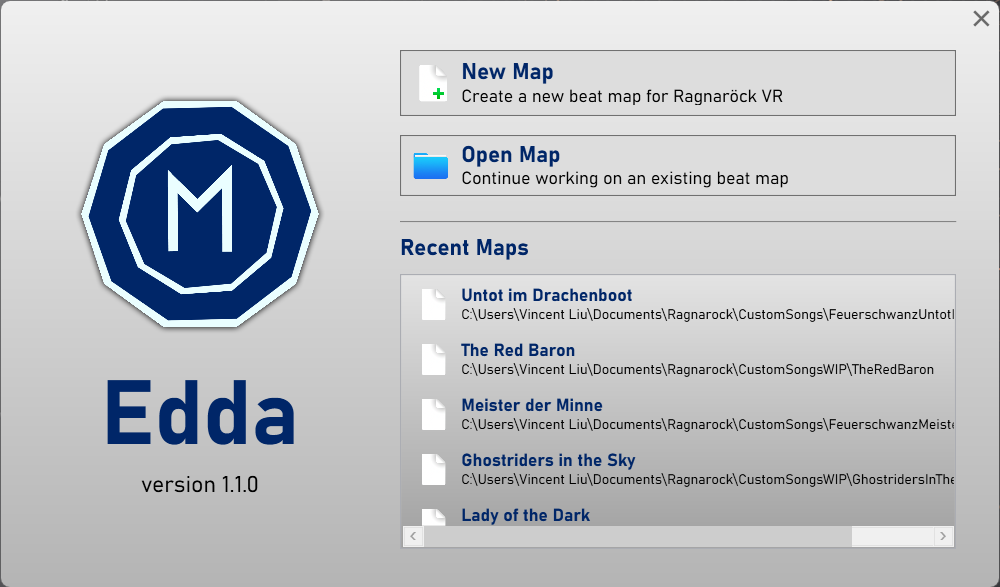
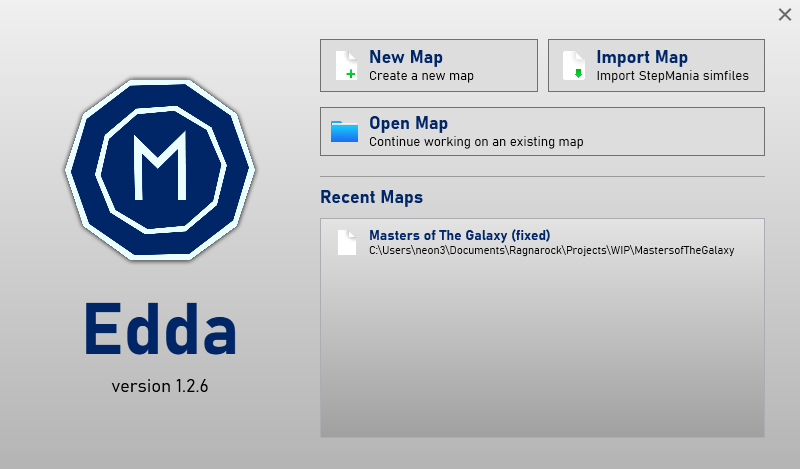
Updated documentation to be in line with Edda 1.2.6

diff --git a/using-edda.md b/using-edda.md
@@ -22,6 +22,8 @@ Now that you have Edda installed, let's make a map!
   - [Basic controls](#basic-controls)
   - [Selecting notes](#selecting-notes)
   - [Note playback](#note-playback)
+  - [Spectrogram](#spectrogram)
+  - [Map Stats](#map-stats)
   - [Exporting your map](#exporting-your-map)
   
  
@@ -74,7 +76,7 @@ You can then transcode to Vorbis format by using Audacity or ffmpeg as described
 
 ## Getting to know the UI 
 
-Go to the folder you extracted Edda to, and open `Edda.exe`.  
+Go to the folder you extracted Edda to, and open `Edda.exe`.
 
 You'll be greeted with a start screen. 
 
@@ -173,7 +175,7 @@ Under **File Info**, click the button with a folder icon next to the *Image* fie
 
 The preview is what plays in-game when you select a song. It should be shorter than 15 seconds and it should showcase the best part of your song, for example the chorus.
 
-You don't need a preview for your song to be playable, but it's a good idea to have one.  
+You don't need a preview for your song to be playable, but it's a good idea to have one. If you don't provide one, the game will automatically play first few seconds of your song instead.
 
 Using the media controls in the bottom of Edda's main window, pick out the start and end times of what you want the preview to be.
 
@@ -183,7 +185,7 @@ Under **File Info**, click the "Create Song Preview" button. Put in your start a
 
 #### The navigational waveform
 
-Let's take a look at the navigational waveform next to the editor grid.
+Let's take a look at the navigational waveform to the right of the editor grid.
 
 The waveform of the entire song is displayed here, and the dark blue horizontal line indicates the position of the scan line (the current position). 
 
@@ -225,7 +227,7 @@ Each difficulty has a *Difficulty Level*, *Note Speed*, and **Medal Distances**.
 
 The *Difficulty Level* is a number from 1 to 10 (inclusive) that represents how hard the map is. You should be familiar with this number if you've played Ragnarock before.
 
-The *Note Speed* is how fast the runes approach you when you play the map in-game. You'll have to experiment with this in the game to get a feel for what the numbers mean. A good place to start is 15, which represents an average speed. You can increase this a few units to make the notes approach even faster.
+The *Note Speed* is how fast the runes approach you when you play the map in-game. The value you set here is the default one used by the game, but the players can override it with the "Custom Rune Speed" setting. You'll have to experiment with this in the game to get a feel for what the numbers mean. A good place to start is 15, which represents an average speed. You can increase this a few units to make the notes approach even faster. The maximum value Ragnarock allows players to set is 30, but you can set it even higher in Edda, although you'll need to inform the players that they have to disable "Custom Rune Speed" to see the intended effect.
 
 **Medal Distances** represent how many metres your boat must row in order to achieve a certain medal. In most cases, you should leave these set to "Auto" so that Ragnarock will automatically calculate medal distances for you.  
 
@@ -233,7 +235,7 @@ The *Note Speed* is how fast the runes approach you when you play the map in-gam
 
 Now that everything else is set up, let's start placing notes.
 
-While you map, it might be helpful to refer to the *Grid Waveform*.
+While you map, it might be helpful to refer to the *Grid Waveform* and *Spectrogram*.
 
 ### Basic controls
 
@@ -252,6 +254,8 @@ To remove a note, simply right-click it.
 You can select notes by either clicking them individually or dragging across the editing grid (to select multiple notes).
 
 If you hold down the `Shift` key while selecting, you can add to your selection instead of clearing it.
+
+Once you place some bookmarks or timing changes, you can click them while holding `Ctrl` to toggle selection of all the notes between that bookmark/timing change and the next one, to quickly select whole sections of a map.
 
 Pressing `Ctrl-A` will select every note on the map.
 
@@ -277,6 +281,20 @@ You can use the media controls to do so, or press `Space` to play/pause the song
 It may be helpful to adjust the *Song Volume* and *Note Volume* in the right sidebar to help you hear notes properly.
 
 To slow down or speed up the song, adjust the *Song Speed* slider in the right sidebar.
+
+### Spectrogram
+
+Spectrogram is a useful tool that visualizes the frequencies present in the audio. Drum beats will generally cause a characteristic "peak" to be visible on a spectrogram, so you can use it as a guide for the timing of your notes.
+
+There is a small bar between Spectrogram and Editing Grid that can be clicked and dragged to resize it if you need to get a closer look.
+
+Spectrogram can be enabled/disabled in the settings. Further options for configuring it are explained on [Spectrogram advanced settings](advanced-topics#spectrogram-advanced-settings) page.
+
+### Map Stats
+
+During the mapping process, you'll be able to see some useful stats in the left sidebar: number of notes of different types, what percentage of notes are in each column, and how many notes per second players will have to hit.
+
+If you configure the difficulty predictor in the settings, you'll also see an estimation of the map difficulty.
 
 ### Exporting your map
 

diff --git a/advanced-topics.md b/advanced-topics.md
@@ -5,19 +5,36 @@
 Now that you're comfortable with using Edda, here are some more advanced topics to help you make the most of your mapping experience.  
 
 - [Settings](#settings)
+    - [Spectrogram advanced settings](#spectrogram-advanced-settings)
 - [Backups](#backups)
 - [Timing changes](#timing-changes)
 - [Note runes](#note-runes)
 - [Audio latency](#audio-latency)
-  - [Technical details](#technical-details)
+    - [Technical details](#technical-details)
 - [Drum hitsounds](#drum-hitsounds)
+- [Audio devices](#audio-devices)
 - [Map save location](#map-save-location)
+- [Import Map](#import-map)
 
 ## Settings
 
 Since Edda v1.0.0, the settings are automatically stored in `AppData/Roaming/Edda/settings.txt`.
 
 You can migrate settings from other Edda installs by replacing `settings.txt`. 
+
+### Spectrogram advanced settings
+
+Once Spectrogram is enabled in the settings, a new section appears that allows you to customize the appearance and other technical details.
+
+The `Color Theme` can be changed by selecting one of the built-in options. Try different ones to decide which one is most clear to you.
+
+Generating spectrogram is costly on CPU, so there's an option to `Cache Images` in a dedicated cache folder. You can also speed up this process by decreasing `Max Frequency` (level of horizontal detail) or `Quality` (level of vertical detail), but this is generally not advised unless your machine struggles a lot.
+
+> **NOTE** For longer songs, the generated image can be bigger than the bitmap format allows for, so it's also recommended to `Enable Chunking`, which generates the spectrogram image in many smaller chunks. 
+>
+> This can cause small artifacts to appear at the "stitches" of those chunks.
+
+> **NOTE** Once caching is enabled, a new option appears in *Menu Bar* under *Tools* that can be used to clear the cache folder.
 
 ## Backups
 
@@ -91,8 +108,8 @@ Each note in Ragnarock has a rune inscribed on it. The runes indicate what beat 
 ---|---
 |ᛄ  |0 (or 1)|
 |ᚼ  |1/2|
-|ᛝ  |1/3|
-|ᛞ  |2/3|
+|ᛝ  |1/3 and 5/6|
+|ᛞ  |1/6 and 2/3|
 |ᛁ   |1/4|
 |ᚾ  |3/4|
 |ᚷ  |other|
@@ -147,7 +164,7 @@ When you play back a map in Edda, a snare drum sound will play when the scan lin
 
 That's the default hitsound for Edda, and it can be changed in the Settings menu (under **Audio Playback**, then *Playback Sound*).
 
-By default Edda also provides a bass drum sound and a hi-hat sound, but you can add your own hitsounds if you aren't satisfied with either.
+By default Edda also provides a bass drum sound, a hi-hat sound and a tick sound from MMA2, but you can add your own hitsounds if you aren't satisfied with either.
 
 To add your own hitsounds, go to the `Resources` folder in your Edda install and place `.mp3` or `.wav` files there.
 
@@ -163,6 +180,10 @@ Some users may find panned audio harder to hear or may experience audio playback
 
 When panned audio is disabled, all drum hitsounds will be played in the middle of both ears.  
 
+## Audio devices
+
+If you have multiple audio devices connected to your computer, you can select which one to use for Edda in the settings.
+
 ## Map save location
 
 Ragnarock lets you store your custom maps in two locations: in your Documents folder or in the game install folder.  
@@ -177,3 +198,8 @@ If you choose the *Game Install* option, you must specify the folder that Ragnar
 
 Once selected, this path is shown in blue in the Settings menu and can be respecified by clicking on it.
 
+## Import Map
+
+Since Edda v1.2.0 (stable since v1.2.5), there's an option for importing StepMania map files into Edda. Both `.sm` and `.ssc` format files are supported.
+
+Since the format for Ragnarock maps is the same as the format used by BeatSaber, their maps can be opened in Edda without importing, although there might be some issues if the map contains objects or features that are not supported in Ragnarock (Please feel free to [report](https://github.com/PKBeam/Edda/issues) any such issues).

diff --git a/controls.md b/controls.md
@@ -4,29 +4,30 @@
 
 ## Mouse Controls
 
+### General
+
+- **On the editing grid:**
+    - **Middle-click** to enter/leave a scrolling mode, in which moving mouse up or down scrolls the grid automatically.
+    - Scrolling mode is also enabled while **holding Middle-click**.
+    - **Ctrl-MouseWheel** changes Grid Division of the section the mouse points at once (either the global one, or on the applicable timing change). Changes are visible on the grid **after** Ctrl is released.
+
 ### Notes
 
-Click and drag to select multiple notes.
-
-Left-click to place a new note or select an existing note.
-
-Shift+Left-click to add or remove a note to/from the selection.
-
-Right-click to delete a note or clear the selection.
+- **Left-click and drag** to select multiple notes.
+    - Note: It's possible to enter scrolling mode after starting to drag the selection box, scroll up or down, and then leave scrolling mode to select longer sections of notes.
+- **Left-click** to place a new note or select an existing note.
+- **Shift+Left-click** to add or remove a note to/from the selection.
+- **Right-click** to delete a note or clear the selection.
 
 ### Markers
 
-**On the editing grid:**
-
-Click and drag a bookmark or timing change to move it (hold Shift to snap to grid).
-
-**On the navigational waveform:**
-
-Right-click a bookmark to rename it.
-
-Right-click a timing change on either the BPM or beat division fields to edit them.
-
-Middle-click a bookmark or timing change to delete it.
+- **On the editing grid:**  
+    - **Left-click and drag a bookmark or timing change** to move it (**hold Shift** to snap to grid).
+    - **Ctrl+Left-click a bookmark or timing change** to add or remove all notes between it and the next one to/from the selection.
+- **On the navigational waveform:**  
+    - **Right-click a bookmark** to rename it.
+    - **Right-click a timing change** on either the BPM or beat division fields to edit t  hem.
+    - **Middle-click a bookmark or timing change** to delete it.
 
 ## Keyboard Controls
 
@@ -37,11 +38,15 @@ Edda comes with many keyboard shortcuts for ease of use.
 |**Ctrl-N**      |New Map
 |**Ctrl-O**      |Open Map
 |**Ctrl-S**      |Save Map
+|**Ctrl-I**      |Import Map
+|**Ctrl-E**      |Export Map
+|**Ctrl-W**      |Close Map
 |**Ctrl-A**      |Select All
 |**Ctrl-C**      |Copy Selection
 |**Ctrl-X**      |Cut Selection
 |**Ctrl-V**      |Paste Clipboard
-|**Ctrl-M**     |Mirror Selected Notes
+|**Ctrl-M**      |Mirror Selected Notes
+|**Ctrl-Q**      |Quantize Selected Notes  | Notes are moved to their closest major or minor gridline.
 |**Ctrl-Z**      |Undo
 |**Ctrl-Y**<br/>**Ctrl-Shift-Z**    |Redo
 |**Ctrl-B**      |Add Bookmark  | The bookmark is placed on your mouse. You can add a bookmark on either the editor grid or navigational waveform. 

diff --git a/getting-started.md b/getting-started.md
@@ -6,11 +6,6 @@ Want to make your own Ragnarock maps? Let's get started.
 
 - [System requirements](#system-requirements)
 - [Installation](#installation)
-- [Setting up your song](#setting-up-your-song)
-  - [Choosing a good song](#choosing-a-good-song)
-  - [Getting a song file](#getting-a-song-file)
-    - [Lossless encoding](#lossless-encoding)
-    - [Lossy encoding](#lossy-encoding)
 
 ## System requirements
 
@@ -24,7 +19,7 @@ Older versions of Windows (back to Windows 7) may work, but are not officially s
 
 Linux users can use [Proton](https://github.com/ValveSoftware/Proton) to run Edda, although it has considerable audio latency and may not function perfectly. WINE alone is not sufficient to run Edda.
 
-> **NOTE**: Testing was performed with Arch Linux using Edda v1.1.0. 
+> **NOTE**: Testing was last performed with Arch Linux using Edda v1.1.0. Users reported issues getting Proton to run Edda v1.2.0+.
 
 ### macOS
 
@@ -42,9 +37,10 @@ If you want to use the smaller `NoRuntime` zip package, you need to have the .NE
 
 |Edda version|.NET version|
 ---|---
-|after 1.1.0  |[7.0]((https://dotnet.microsoft.com/download/dotnet/7.0/runtime)) or later|
+|after 1.2.4    |[8.0]((https://dotnet.microsoft.com/download/dotnet/8.0/runtime)) or later|
+|1.1.0 to 1.2.4 |[7.0]((https://dotnet.microsoft.com/download/dotnet/7.0/runtime)) or later|
 |1.0.0 to 1.1.0 |[6.0]((https://dotnet.microsoft.com/download/dotnet/6.0/runtime)) or later|
-|before 1.1.0    |[5.0]((https://dotnet.microsoft.com/download/dotnet/5.0/runtime)) or later|
+|before 1.0.0   |[5.0]((https://dotnet.microsoft.com/download/dotnet/5.0/runtime)) or later|
 
 Once you've downloaded the zip package, extract it somewhere on your PC.
 

diff --git a/index.md b/index.md
@@ -1,7 +1,7 @@
 ---
 ---
 
-> **NOTE**: This website was last updated for Edda v1.1.0.
+> **NOTE**: This website was last updated for Edda v1.2.6.
 
 # About Edda
 Edda is a beatmap editor for the VR rhythm game [Ragnarock](https://store.steampowered.com/app/1345820/Ragnarock/).  
